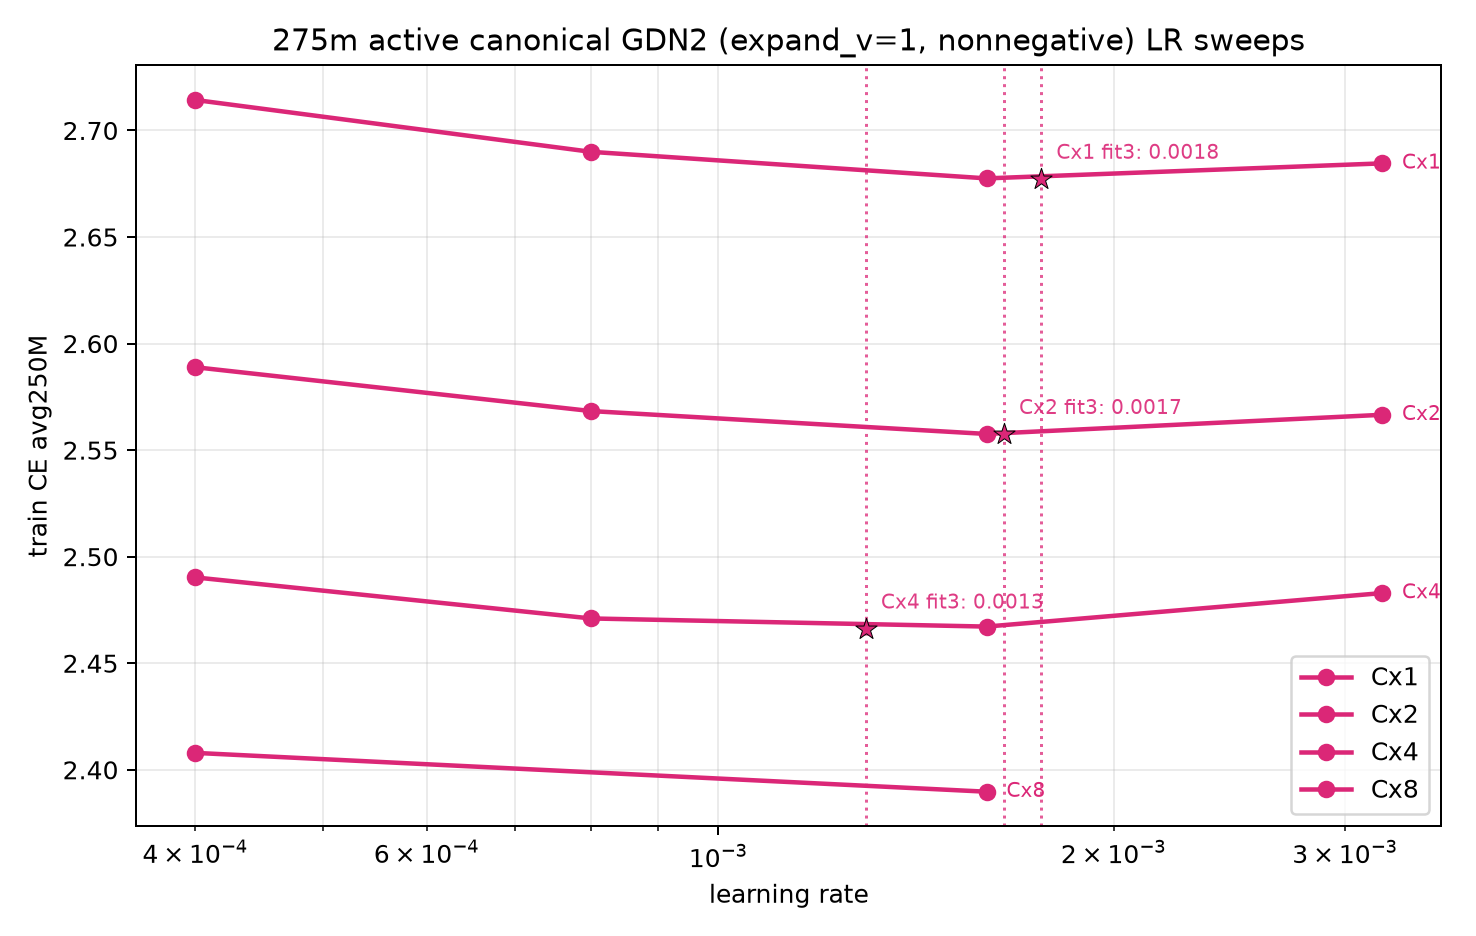
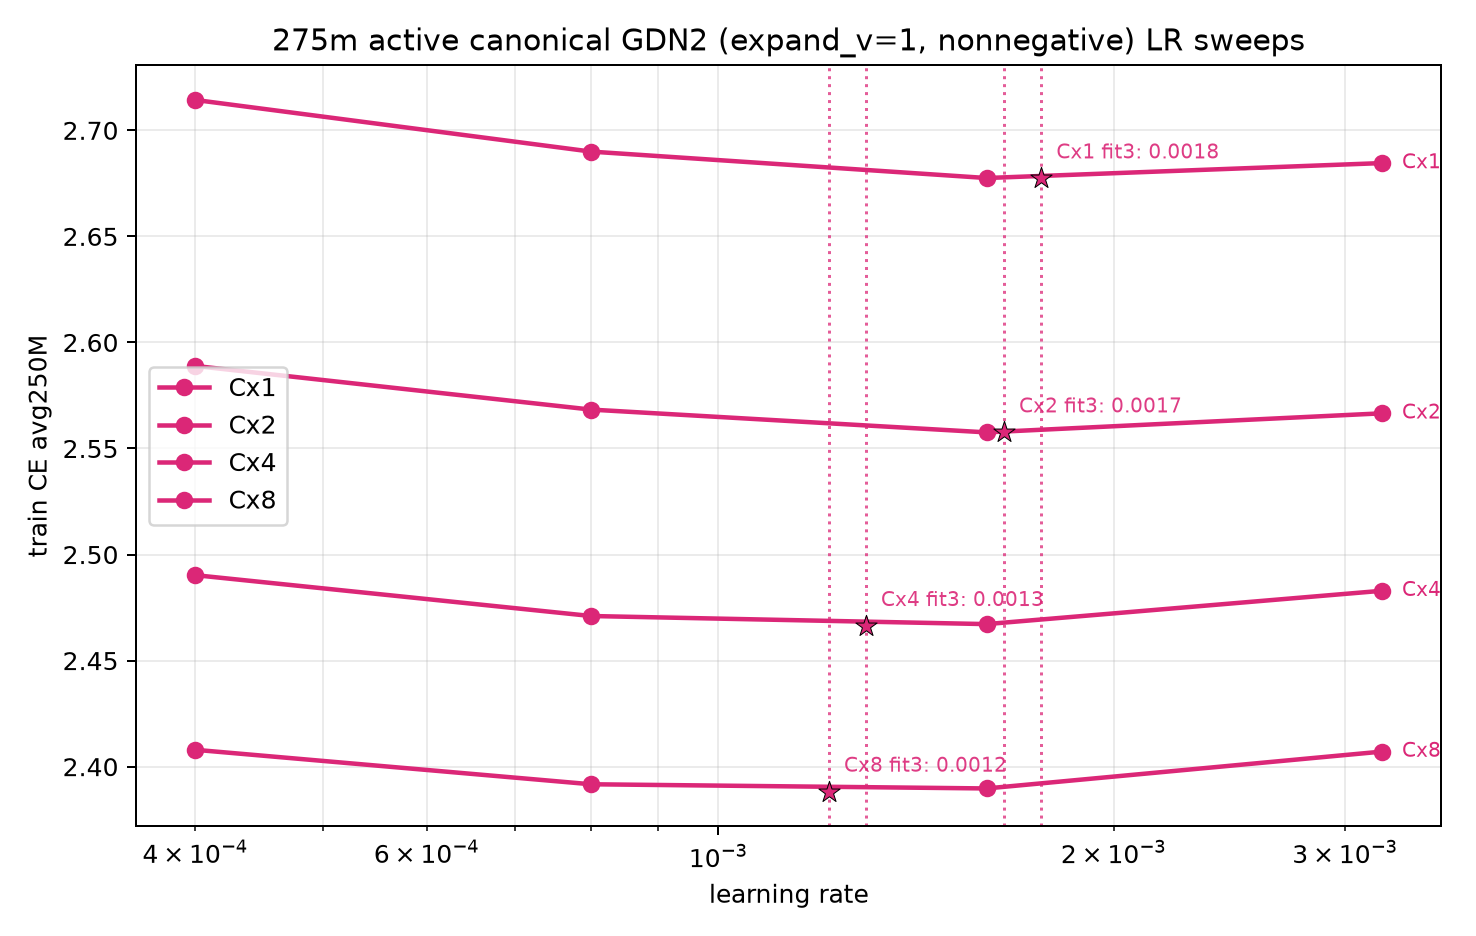
Refresh GDN2 plots and compact comparison legend

diff --git a/src/scripts/train/jacobm_olmoe_ladder/v1/experiment_summary_plots.py b/src/scripts/train/jacobm_olmoe_ladder/v1/experiment_summary_plots.py
@@ -73,6 +73,7 @@ def plot_observed_best_summary(
     variants: Sequence[SummaryVariant],
     window_m: int,
     provisional_points: set[tuple[str, int, str]] | None = None,
+    legend_columns: int | None = None,
 ) -> bool:
     """Plot best observed finished loss by model/Cx/variant.
 
@@ -176,15 +177,18 @@ def plot_observed_best_summary(
         for handle, label in zip(*ax.get_legend_handles_labels()):
             unique.setdefault(label, handle)
     if unique:
+        ncol = min(len(unique), legend_columns or 4)
         fig.legend(
             unique.values(),
             unique.keys(),
             loc="lower center",
-            ncol=min(len(unique), 4),
+            ncol=ncol,
             bbox_to_anchor=(0.5, -0.02),
             frameon=False,
         )
-    fig.tight_layout(rect=(0, 0.08, 1, 0.94))
+    legend_rows = (len(unique) + ncol - 1) // ncol if unique else 0
+    bottom_margin = 0.08 + 0.055 * max(0, legend_rows - 1)
+    fig.tight_layout(rect=(0, bottom_margin, 1, 0.94))
     out_path.parent.mkdir(parents=True, exist_ok=True)
     fig.savefig(out_path, dpi=180, bbox_inches="tight")
     plt.close(fig)

diff --git a/src/scripts/train/jacobm_olmoe_ladder/v2/plot_canonical_gdn2_kda.py b/src/scripts/train/jacobm_olmoe_ladder/v2/plot_canonical_gdn2_kda.py
@@ -201,6 +201,7 @@ def plot_shared_best_of(
         variants=summary_variants,
         window_m=FINAL_WINDOW_M,
         provisional_points=provisional,
+        legend_columns=2,
     )
     return output_path
 

diff --git a/src/scripts/train/jacobm_olmoe_ladder/v2/results/pretraining/canonical_gdn2_kda/results.md b/src/scripts/train/jacobm_olmoe_ladder/v2/results/pretraining/canonical_gdn2_kda/results.md
@@ -1,6 +1,6 @@
 # Canonical GDN2 and KDA 275M comparison
 
-Generated: `2026-07-25T16:41:04.562692+00:00`
+Generated: `2026-07-25T17:22:23.387283+00:00`
 
 Only bracketed curves enter the shared best-of plot. Every label is the observed-best LR; fitted minima are never substituted.
 
@@ -21,7 +21,7 @@ Only bracketed curves enter the shared best-of plot. Every label is the observed
 | canonical GDN2 (expand_v=1, nonnegative) | Cx1 | 4/4 | bracketed | 2.677515 @ 0.0016 | 2.677328 @ 0.0018 |
 | canonical GDN2 (expand_v=1, nonnegative) | Cx2 | 4/4 | bracketed | 2.557597 @ 0.0016 | 2.557577 @ 0.0017 |
 | canonical GDN2 (expand_v=1, nonnegative) | Cx4 | 4/4 | bracketed | 2.467207 @ 0.0016 | 2.466300 @ 0.0013 |
-| canonical GDN2 (expand_v=1, nonnegative) | Cx8 | 2/4 | — | 2.389725 @ 0.0016 | — |
+| canonical GDN2 (expand_v=1, nonnegative) | Cx8 | 4/4 | bracketed | 2.389725 @ 0.0016 | 2.388192 @ 0.0012 |
 | canonical KDA (expand_v=1, nonnegative) | Cx1 | 4/4 | bracketed | 2.717057 @ 0.0016 | 2.717047 @ 0.0016 |
 | canonical KDA (expand_v=1, nonnegative) | Cx2 | 4/4 | bracketed | 2.587990 @ 0.0016 | 2.587878 @ 0.0015 |
 | canonical KDA (expand_v=1, nonnegative) | Cx4 | 4/4 | bracketed | 2.486896 @ 0.0016 | 2.485703 @ 0.0013 |

diff --git a/src/scripts/train/jacobm_olmoe_ladder/v2/results/pretraining/geometry_gdn2_ev2_nope_gated/results.md b/src/scripts/train/jacobm_olmoe_ladder/v2/results/pretraining/geometry_gdn2_ev2_nope_gated/results.md
@@ -1,6 +1,6 @@
 # Geometry-matched NoPE gated-attention GDN2 intervention
 
-Generated: `2026-07-25T16:42:12.589467+00:00`
+Generated: `2026-07-25T17:20:35.915344+00:00`
 
 Selection metric: final `250M`-token mean training CE. Only finished runs are eligible.
 The optimal-LR summary includes only bracketed 275M sweeps with a valid quadratic fit.
